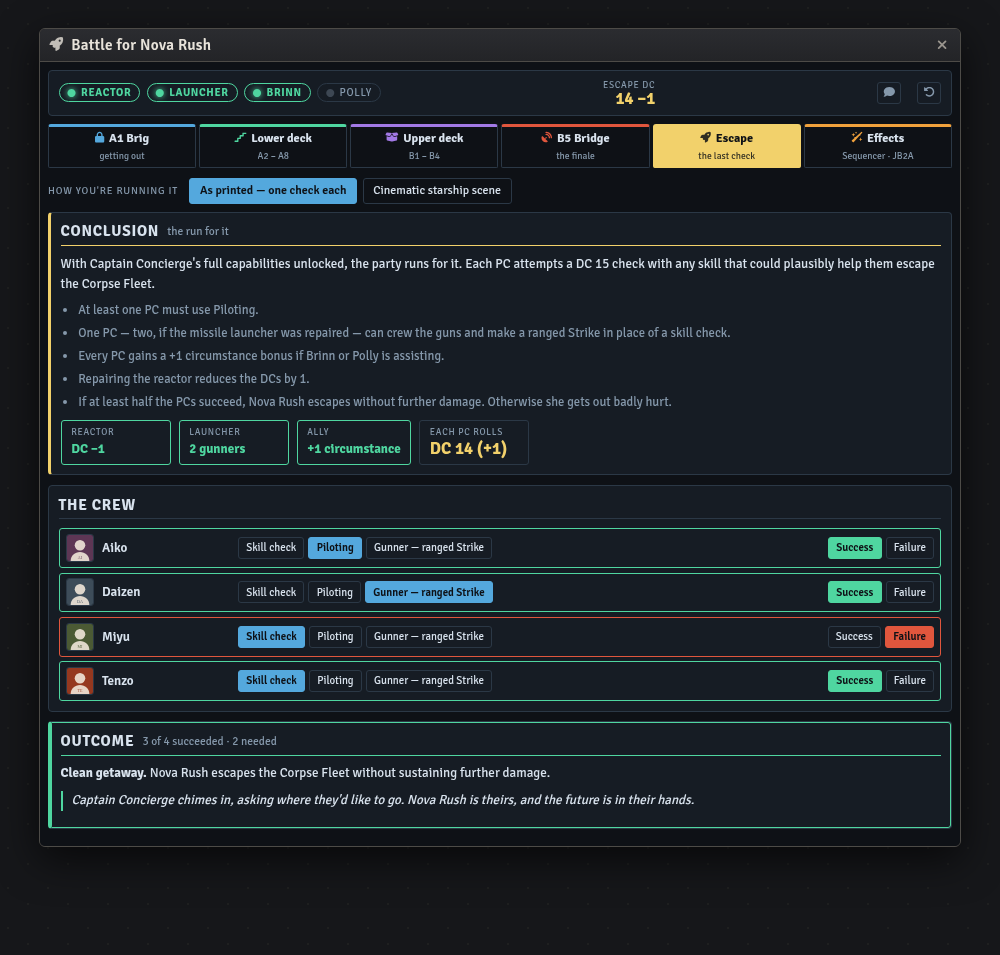
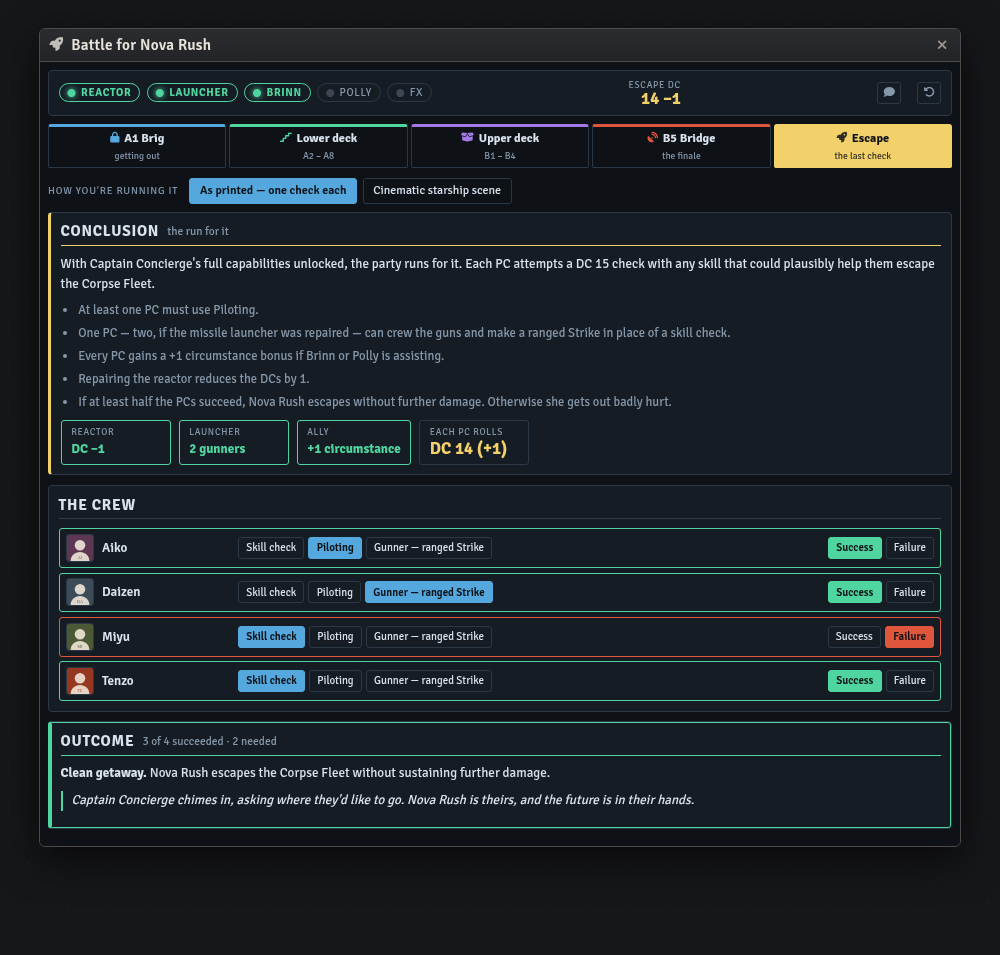
Ship no campaign of my own, and put the effect cues where they fire
Two things another table would have tripped over.

The campaign tracker opened on Act 2 Chapter 5 with Act 1 marked complete,
because that was where my table happened to be. It now starts at Chapter 1
with nothing ticked. `ARCS` held four of my own PCs by name; it's empty,
with a worked example in the comment above it, since a PC's campaign arc
is the one thing in this macro that can't come from the book. Two notes
that read "Re Tang's chapter" now say "if a PC owns the teahouse", and the
festival's stagecraft aid no longer names him either.

Everything else that looked like a default turned out to be the book's:
Hope starts at 3 because Preparing for Winter says so, and the monastery's
+2 Reputation is recomputed from whether the party told the truth.

Nova Rush loses its Effects tab. Each of the eight cues is now a button
beside the beat it fires at — the four battle-damage ones on their own
faces, where they were previously only reachable by rolling. Every button
reports its own state: greyed with the reason when Sequencer is absent or
no art matched, and naming the key that resolved in its tooltip. An FX
lamp in the header carries the detection status the tab used to, and the
guidance about substituting a key moved into the FX block, which is where
you'd act on it.

Changed region(s): [[0.62, 0.0607, 0.961, 0.1822], [0.186, 0.1215, 0.62, 0.1822], [0.093, 0.1215, 0.155, 0.1822]]

diff --git a/macros/battle-for-nova-rush/nova-rush-console.js b/macros/battle-for-nova-rush/nova-rush-console.js
@@ -39,6 +39,20 @@ const UUIDS = {
    Both modules are optional. With neither installed nothing here fires and
    nothing else in the console is affected. The Effects tab reports what
    resolved and can test each cue. */
+/* ------------------------------------------------------------- the effects
+   Optional cues: animation from JB2A and sound from PSFX, both through
+   Sequencer. Everything in this console works without any of them.
+
+   Each cue sits on a button beside the beat it belongs to rather than in a
+   list of its own, and each reports its own state — a cue with no installed
+   art is disabled and says so. Keys are verified against the full JB2A and
+   PSFX libraries with fallbacks for the free release, and a cue plays the
+   first key your world actually has.
+
+   If one says no matching file, open Sequencer's Database Viewer, find
+   something you like, and put its key at the top of that cue's `files` list.
+   `where` is the beat the cue belongs to, kept so a cue can be traced back to
+   its button. */
 const FX = {
   attack: {
     label: "We're Under Attack", where: "A1 — the Corpse Fleet's first volley",
@@ -129,8 +143,7 @@ const TABS = [
   { key: "lower", label: "Lower deck", sub: "A2 – A8", tone: "moss", icon: "fa-stairs" },
   { key: "upper", label: "Upper deck", sub: "B1 – B4", tone: "plum", icon: "fa-box-open" },
   { key: "bridge", label: "B5 Bridge", sub: "the finale", tone: "rust", icon: "fa-satellite-dish" },
-  { key: "escape", label: "Escape", sub: "the last check", tone: "gold", icon: "fa-rocket" },
-  { key: "fx", label: "Effects", sub: "Sequencer · JB2A", tone: "ember", icon: "fa-wand-sparkles" }
+  { key: "escape", label: "Escape", sub: "the last check", tone: "gold", icon: "fa-rocket" }
 ];
 
 /* ------------------------------------------------------------------- brig */
@@ -837,7 +850,6 @@ class NRApp extends BaseApp {
         ${s.tab === "upper" ? this.deckTab("upper", ro) : ""}
         ${s.tab === "bridge" ? this.bridgeTab(ro) : ""}
         ${s.tab === "escape" ? (s.mode === "cinematic" ? this.sceneTab(ro) : this.escapeTab(ro)) : ""}
-        ${s.tab === "fx" ? this.fxTab(ro) : ""}
       </div>`;
   }
 
@@ -851,6 +863,9 @@ class NRApp extends BaseApp {
           ${lamp(r.launcher, "Launcher", "B2 — adds a second gunner slot")}
           ${lamp(al.brinn, "Brinn", "A6 — +1 circumstance to the escape")}
           ${lamp(al.polly, "Polly", "B1 — +1 circumstance, and soaks the reactor's shock")}
+          ${lamp(t.fxReady, "FX", t.fxReady
+            ? "Sequencer detected — the effect buttons beside each beat will fire"
+            : "Sequencer not detected. Everything here works without it; install Sequencer and a JB2A module for the optional cues.")}
         </div>
         <div class="dcbox">
           <span>Escape DC</span><b>${t.escapeDC}${t.escapeBonus ? ` −${t.escapeBonus}` : ""}</b>
@@ -858,6 +873,20 @@ class NRApp extends BaseApp {
         <button type="button" class="say" data-act="poststatus" title="Post ship status"><i class="fa-solid fa-comment"></i></button>
         <button type="button" class="say" data-act="reset" title="Reset the adventure" ${ro ? "disabled" : ""}><i class="fa-solid fa-rotate-left"></i></button>
       </header>`;
+  }
+
+  /* Every effect cue is a button beside the beat it belongs to, and each one
+     reports its own state: enabled when Sequencer has art (or a shake) for it,
+     disabled with the reason in its tooltip when it hasn't. */
+  fxBtn(key, label, { icon = "fa-wand-sparkles", cls = "ghost" } = {}) {
+    const st = this.t.fxStatus(key);
+    const off = st.state !== "ok";
+    const why = st.state === "off" ? "Sequencer not detected — the cue is optional"
+      : st.state === "missing" ? "No matching JB2A file installed. Put a key you do have at the top of this cue's list in the FX block."
+      : `${st.detail}${st.sound ? ` · ${st.sound}` : ""}`;
+    return `<button type="button" class="${cls} fxbtn ${st.state}" data-act="fx" data-k="${key}"
+      ${off ? "disabled" : ""} title="${esc(FX[key].label)} — ${esc(why)}">
+      <i class="fa-solid ${icon}"></i> ${label}</button>`;
   }
 
   creatureRow(list) {
@@ -921,9 +950,7 @@ class NRApp extends BaseApp {
         <p class="boxed">${BRIG.attack.boxed}</p>
         <p class="note">${BRIG.attack.fail}</p>
         <div class="btnrow">
-          <button type="button" class="primary" data-act="fx" data-k="attack">
-            <i class="fa-solid fa-wand-sparkles"></i> Play the hit
-          </button>
+          ${this.fxBtn("attack", "Play the hit", { cls: "primary" })}
         </div>
       </section>`;
   }
@@ -1002,7 +1029,7 @@ class NRApp extends BaseApp {
         ${r.polly ? `<p class="note">${t.s.allies.polly ? "<b>Polly is helping</b> — " : ""}${r.polly}</p>` : ""}
         <p class="bonus">${r.pays}</p>
         <div class="btnrow">
-          ${key === "reactor" ? `<button type="button" class="ghost" data-act="fx" data-k="reactor"><i class="fa-solid fa-bolt"></i> Shock</button>` : ""}
+          ${key === "reactor" ? this.fxBtn("reactor", "Shock", { icon: "fa-bolt" }) : ""}
           <button type="button" class="${done ? "ghost" : "primary"}" data-act="repair" data-k="${key}" ${ro ? "disabled" : ""}>
             ${done ? "Mark unrepaired" : "Mark repaired"}
           </button>
@@ -1057,7 +1084,7 @@ class NRApp extends BaseApp {
             <button type="button" class="ghost" data-act="sinktoggle" ${ro ? "disabled" : ""}>
               ${sw.active ? "Stand it down" : "Trigger the wave"}
             </button>
-            <button type="button" class="ghost" data-act="fx" data-k="sinkwell"><i class="fa-solid fa-wand-sparkles"></i> Effect</button>
+            ${this.fxBtn("sinkwell", "Effect")}
           </div>
           ${sw.defeated ? `<p class="bonus">Disabled — “Guess I owe you one!” Polly will help with the reactor.</p>` : ""}
         </div>
@@ -1092,6 +1119,7 @@ class NRApp extends BaseApp {
           ${BRIDGE.damage.map(d => `
             <div class="face ${s.lastDamage === d.roll ? "hit" : ""}">
               <b>${d.roll}</b><span><i>${d.label}</i> ${d.text}</span>
+              ${d.fx ? this.fxBtn(d.fx, "Play", { cls: "opt sm" }) : ""}
             </div>`).join("")}
         </div>
       </section>`;
@@ -1147,11 +1175,7 @@ class NRApp extends BaseApp {
           ? "Nova Rush breaks away without sustaining further damage — the adventure's better ending."
           : "Nova Rush escapes severely damaged. She is disabled, never destroyed, and she is still theirs."}</p>
         <p class="quote">${ESCAPE.win}</p>
-        <div class="btnrow">
-          <button type="button" class="primary" data-act="fx" data-k="escape">
-            <i class="fa-solid fa-wand-sparkles"></i> Play the breakaway
-          </button>
-        </div>
+        <div class="btnrow">${this.fxBtn("escape", "Play the breakaway", { cls: "primary" })}</div>
       </section>` : ""}
 
       <section class="panel">
@@ -1218,34 +1242,6 @@ class NRApp extends BaseApp {
   }
 
   /* ------------------------------------------------------------------ fx */
-  fxTab(ro) {
-    const t = this.t, ready = t.fxReady;
-    return `
-      <section class="panel" style="--tone:var(--${ready ? "moss" : "muted"})">
-        <h3>Sequencer and JB2A <small>${ready ? "detected" : "not detected"}</small></h3>
-        <p class="text">Animation comes from <b>JB2A</b> and sound from <b>PSFX</b>, both through Sequencer, and all of it is optional — everything in this console works without them. When they're active, the cues below fire from their buttons, and the bridge's battle damage plays its own effect as you roll it.</p>
-        ${ready ? "" : `<p class="note">Install and enable <b>Sequencer</b> and a <b>JB2A</b> module (the free library covers most of these) and reopen this macro.</p>`}
-        <p class="hint">Every key ships verified against the full JB2A and PSFX libraries, with fallbacks for JB2A's free release. Each cue uses the first key your world actually has. If one reads “no matching file”, open Sequencer's Database Viewer, find something you like, and put its key at the top of that cue's list in the <code>FX</code> block near the top of this macro.</p>
-      </section>
-
-      <section class="panel">
-        <h3>Cues</h3>
-        <div class="fxlist">
-          ${Object.entries(FX).map(([k, cue]) => {
-            const st = t.fxStatus(k);
-            return `
-              <div class="fxrow">
-                <span class="dot ${st.state}"></span>
-                <div class="fxname"><b>${cue.label}</b><small>${cue.where}</small></div>
-                <code class="fxfile">${st.detail}${st.sound ? ` · ${st.sound}` : ""}</code>
-                <button type="button" class="opt sm" data-act="fx" data-k="${k}" ${ro || !ready ? "disabled" : ""}>Test</button>
-              </div>`;
-          }).join("")}
-        </div>
-        <p class="hint">Cues marked “selected” play on the tokens you have selected; ship-wide ones play in screen space and don't need a selection.</p>
-      </section>`;
-  }
-
   escapeTab(ro) {
     const t = this.t, e = t.escapeState, dc = t.escapeDC, bonus = t.escapeBonus;
     return `

diff --git a/macros/season-of-ghosts/campaign-status-tracker.js b/macros/season-of-ghosts/campaign-status-tracker.js
@@ -9,7 +9,8 @@
    the Threads tab, which turns red once the party reaches the chapter that
    needs it. Reads the four chapter consoles' saved state for a live rollup.
 
-   Defaults match the campaign notes as of 2026-08-04: Act 2, Chapter 5, week 3.
+   Starts at Chapter 1 with nothing ticked. Click a chapter's status button to
+   move the table forward; everything else keys off wherever it says you are.
    ============================================================================ */
 
 const CS_NS = "world";
@@ -275,7 +276,7 @@ const STATUS_ORDER = ["todo", "active", "done"];
 const CHAPTERS = [
   { n: 1, act: 1, title: "To Light the Night", level: 1, console: null,
     spine: "The party wakes in the woods after the festival to a monster-held Willowshore. Ends with Gurglegut dead and the Eternal Lantern relit.",
-    note: "No deep guide and no source text — the vault page is reconstructed from downstream references.",
+    note: "The one chapter with no encounter-by-encounter breakdown here — the items below are reconstructed from what later chapters refer back to.",
     items: [
       { key: "lantern", label: "Eternal Lantern relit — Gurglegut dead", pays: "Level 2 milestone" },
       { key: "abacus", label: "Abacus Sisters (Midori, Murasaki) survived", pays: "Ch 4 · E13", at: 4 },
@@ -384,7 +385,7 @@ const CHAPTERS = [
         pays: "Ch 8–9 research DCs", at: 8 },
       { key: "head", label: "Pharasma's head recovered from the Tan Sugi (E13)", pays: "E5 purification", at: 7 },
       { key: "tea", label: "E6 refectory settled with a tea ceremony rather than a fight",
-        note: "A critical success also reveals where Pharasma's head went. Re Tang's chapter." },
+        note: "A critical success also reveals where Pharasma's head went. If a PC owns the teahouse, this is their scene." },
       { key: "yuni", label: "Yuni laid to rest with Yeri's bracelet (E2)" },
       { key: "xinyue", label: "Xin Yue defeated — both phases" },
       { key: "truth", label: "The truth told to Willowshore", danger: true,
@@ -490,7 +491,7 @@ const CHAPTERS = [
       { key: "summer", label: "Summer rite — Fiery Flowers · anchor of Vigor" },
       { key: "autumn", label: "Autumn rite — Sweet Fruits · anchor of Harvest" },
       { key: "winter", label: "Winter rite — Spiced Tea · anchor of Endurance", danger: true,
-        note: "Severe 11 if it turns violent, and the rework adds +2 to the social DCs. Re Tang's chapter — push toward the ceremony." },
+        note: "Severe 11 if it turns violent, and the rework adds +2 to the social DCs. If a PC owns the teahouse, this is their scene — push toward the ceremony." },
       { key: "beyond", label: "Beyond rite — Gossamer Path · anchor of Passage",
         note: "Arrive via the sash or it's DC 34 Diplomacy to stay the path maiden's attack." },
       { key: "witness", label: "The red-clad witness planted at Elizeth's murder", rework: true },
@@ -960,20 +961,24 @@ const FESTIVAL_SWEEPS = {
   heart: "Champion of Heart", daring: "Champion of Daring"
 };
 
-/* Arcs from the campaign notes, matched to whatever the party actor holds. */
-const ARCS = {
-  "Lotus Leaf-Flower": "Created by Master Zhi Hui — The Unfinished Lesson, landing in Ch 7",
-  "Lysander Vargas": "Thief-bartender, ward Erin, smuggling ties. Leads Faceless Evil in Ch 9.",
-  "Re Tang": "Cerulean Teahouse owner — the tea ceremonies in Ch 7 and Ch 12 are hers",
-  "Zhu Chao": "Harpist, 17, tool-shop family"
-};
+/* Your own PCs' campaign arcs, keyed by the actor's name, shown under them on
+   the party panel. Empty by design — this is the one place in the macro that
+   can't be filled in from the book. A line each is enough:
+
+     const ARCS = {
+       "Some Bard": "Harpist, 17, tool-shop family",
+       "Some Monk": "Created by Master Zhi Hui — the Unfinished Lesson lands in Ch 7"
+     };
+
+   A name with no entry simply shows no arc line. */
+const ARCS = {};
 
 /* ------------------------------------------------------------------ state */
 function blankState(pcs) {
   return {
     v: 1, tab: "campaign", pcs,
-    /* Seeded from the campaign notes: Act 1 complete, Chapter 5 running. */
-    chapters: { 1: "done", 2: "done", 3: "done", 4: "done", 5: "active" },
+    /* Chapter 1, running. Advance it from the act tabs. */
+    chapters: { 1: "active" },
     flags: {},
     loot: {},
     cues: {},

diff --git a/tools/preview/fixtures.js b/tools/preview/fixtures.js
@@ -111,7 +111,7 @@ globalThis.FIXTURES = {
       rep: { southbank: 1, northridge: 2 },
       research: { sojin: 2, igawa: 0, willow: 0, solo: 4, zoudou: 0 },
       opts: { expansion: true, teaware: false },
-      yami: { bonded: true, pc: "Re Tang", lockUntil: 0 }
+      yami: { bonded: true, pc: "Tenzo", lockUntil: 0 }
     },
     /* Week 3's festival, resolved — so the party panel has titles to show.
        `pcs` is spelled out because this fixture is read by a macro other than
@@ -191,8 +191,8 @@ globalThis.FIXTURES = {
   "campaign-hinterlands": {
     "world.sogCampaign": {
       tab: "campaign",
-      /* 4 and 5 are spelled out because blankState() seeds them played, and
-         two chapters must never read as running at once. */
+      /* Spelled out past the running chapter so nothing reads as played
+         that shouldn't, and so two chapters never read as running at once. */
       chapters: { 1: "done", 2: "done", 3: "active", 4: "todo", 5: "todo" },
       flags: {
         "1.lantern": true, "1.kappas": true, "1.elders": true,
@@ -277,14 +277,16 @@ globalThis.FIXTURES = {
     }
   },
 
-  /* The effects tab with the Sequencer stand-in switched on, so the cue list
-     shows what it looks like once the modules are installed. */
+  /* The bridge with the Sequencer stand-in switched on, so the effect cues
+     beside each battle-damage face show what they look like once the modules
+     are installed. */
   "novarush-fx": {
     __sequencer: true,
     "world.sf2eNovaRush": {
-      tab: "fx",
+      tab: "bridge",
       repairs: { reactor: true, launcher: true },
-      allies: { brinn: true, polly: true }
+      allies: { brinn: true, polly: true },
+      round: 2, lastDamage: 1
     }
   },
 

diff --git a/macros/season-of-ghosts/first-long-night-console.js b/macros/season-of-ghosts/first-long-night-console.js
@@ -55,7 +55,7 @@ const THROUGHLINES = {
 const MOVEMENTS = [
   { id: "I", name: "The Setting", sub: "raising the house", tag: "Stagecraft",
     check: "DC 17 Crafting or DC 17 Society",
-    text: "Hang the backdrops, place the lanterns, seat the crowd, read the room. Aid magnet — Re Tang's venue prep.",
+    text: "Hang the backdrops, place the lanterns, seat the crowd, read the room. Aid magnet — whoever runs the venue.",
     botch: "A lantern line sags and threatens the cloth. A quick DC 15 Reflex, or the show starts on a smell of singe." },
   { id: "II", name: "The Overture", sub: "first notes on the harp", tag: "Performance",
     check: "DC 19 Performance",
@@ -139,7 +139,7 @@ const BOOTHS = [
     rp: "Your mouthpiece for ominous foreshadowing of Acts 3 and 4 — a man wears your face; you have walked among the dead and not known it; the lantern's light will leave Willowshore.",
     payoff: "No points. Pure flavour, dread, and player paranoia.",
     awards: [] },
-  { key: "tea", tone: "gold", name: "The Moonlit Tea Ceremony", tag: "Reputation · Re Tang",
+  { key: "tea", tone: "gold", name: "The Moonlit Tea Ceremony", tag: "Reputation · the teahouse",
     run: "DC 18 Tea Lore or DC 20 Diplomacy to host visiting elders, merchants, and a priest gracefully.",
     rp: "The teahouse as community hearth, and a chance to charm both factions at one table. A quiet word with a mysterious traveller.",
     payoff: "1–2 Reputation and a standing discount with a merchant. Sets the teahouse up as the venue for the show.",

diff --git a/tools/preview/capture.py b/tools/preview/capture.py
@@ -65,12 +65,12 @@ SHOTS = {
     "novarush-escape": (
         "battle-for-nova-rush/nova-rush-console.js", "novarush-escape",
         "battle-for-nova-rush/nova-rush-escape.png"),
-    "novarush-scene": (
-        "battle-for-nova-rush/nova-rush-console.js", "novarush-scene",
-        "battle-for-nova-rush/nova-rush-scene.png"),
     "novarush-fx": (
         "battle-for-nova-rush/nova-rush-console.js", "novarush-fx",
         "battle-for-nova-rush/nova-rush-fx.png"),
+    "novarush-scene": (
+        "battle-for-nova-rush/nova-rush-console.js", "novarush-scene",
+        "battle-for-nova-rush/nova-rush-scene.png"),
     "campaign-loot": (
         "season-of-ghosts/campaign-status-tracker.js", "campaign-loot",
         "season-of-ghosts/campaign-status-loot.png"),

diff --git a/macros/battle-for-nova-rush/README.md b/macros/battle-for-nova-rush/README.md
@@ -42,7 +42,6 @@ console keeps those four lit across the top and does the arithmetic for you.
     ally's +1, and the launcher's second gunner slot, warns if nobody took Piloting or there
     are more gunners than slots, and calls the result against the half-the-party threshold.
   - **Cinematic starship scene** — the same escape run under the SF2e framework, below.
-- **Effects** — the optional Sequencer / JB2A cue list, with a Test button per cue.
 
 ![The bridge, with the battle damage roller](../../screenshots/battle-for-nova-rush/nova-rush-bridge.png)
 
@@ -76,7 +75,8 @@ Animation comes from **JB2A**, sound from **PSFX**, both driven through **Sequen
 it is **optional**: without the modules every button still works and the console says the
 effect didn't play.
 
-Eight cues, each with an animation and a sound:
+Eight cues, each with an animation and a sound. Every one sits on a button beside the beat it
+belongs to rather than in a list of its own:
 
 | Cue | Fires at | Animation | Sound |
 |---|---|---|---|
@@ -89,22 +89,24 @@ Eight cues, each with an animation and a sound:
 | Battle damage — Concierge | B5, the 4 result | `jb2a.energy_field.02.above.blue` | dancing lights |
 | Breaking away | the end of the escape | `jb2a.fire_jet.blue.30ft` | misty step |
 
-The four battle-damage cues fire automatically as you roll the d4 — no extra click.
+The four battle-damage cues also fire automatically as you roll the d4; the buttons on the
+faces are for replaying one, or firing it without rolling.
 
 PSFX is a fantasy library rather than a science-fiction one, so its sounds are picked for what
 they sound like rather than what they're named after: a fireball's explosion for a hull hit,
 Arms of Hadar for the sinkwell's void tentacles, a gust for a ruptured steam pipe.
 
 Every key ships **verified against the full JB2A and PSFX databases**, with fallbacks for
-JB2A's free release. Each cue uses the first key your world actually has; the **Effects** tab
-reports which one resolved, flags any that found nothing, and gives you a Test button. To
-substitute your own, open Sequencer's Database Viewer and put its key at the top of that cue's
-list in the `FX` block near the top of the macro.
+JB2A's free release. Each cue uses the first key your world actually has, and each button
+carries its own state: it names the key that resolved in its tooltip, and greys itself out with
+the reason when Sequencer is absent or nothing matched. The **FX** lamp in the header says
+whether Sequencer was detected at all. To substitute your own key, open Sequencer's Database
+Viewer and put it at the top of that cue's list in the `FX` block near the top of the macro.
 
 Cues aimed at tokens play on whatever you have selected, and fall back to a screen-space
 effect when nothing is selected, so nothing is ever silently skipped.
 
-![The effects tab](../../screenshots/battle-for-nova-rush/nova-rush-fx.png)
+![The battle damage faces, each with its own cue](../../screenshots/battle-for-nova-rush/nova-rush-fx.png)
 
 ## Statblocks
 

diff --git a/macros/season-of-ghosts/README.md b/macros/season-of-ghosts/README.md
@@ -162,7 +162,9 @@ produced them.
   and Act 4 files Dense Fog under SFX rather than Ambience
 - A **Before this session** panel on the campaign tab surfacing the current chapter's cues and
   unclaimed treasure without hunting through tabs
-- The Two Weavers continuity checklist, the milestone-level table, and per-PC arcs
+- The Two Weavers continuity checklist and the milestone-level table. `ARCS` near the top of
+  the macro is empty by design — put a line per PC in it and it shows under them on the party
+  panel; it's the one thing here that can't come from the book
 - A spoiler-free chat recap: act, chapter, level, and the chapters behind them
 
 Two levels of heading, and they don't compete. A panel is titled in large ink over a thick

diff --git a/CHANGELOG.md b/CHANGELOG.md
@@ -52,6 +52,11 @@
   module's own playlist, shows what's currently running, and repaints when playback changes
   anywhere — including from the sidebar
 
+- Nova Rush: the Effects tab is gone — each cue is now a button beside the beat it belongs to,
+  reporting its own state, with an FX lamp in the header for whether Sequencer was detected
+- Macros ship with no campaign of their own: the tracker starts at Chapter 1 with nothing
+  ticked, `ARCS` is empty for you to fill in, and no note names another table's PCs
+
 ### Changed
 - Campaign tracker: only **required** items can go overdue. An unticked box in a finished
   chapter is now **skipped** — the party killed the Abacus Sisters rather than saving them,
